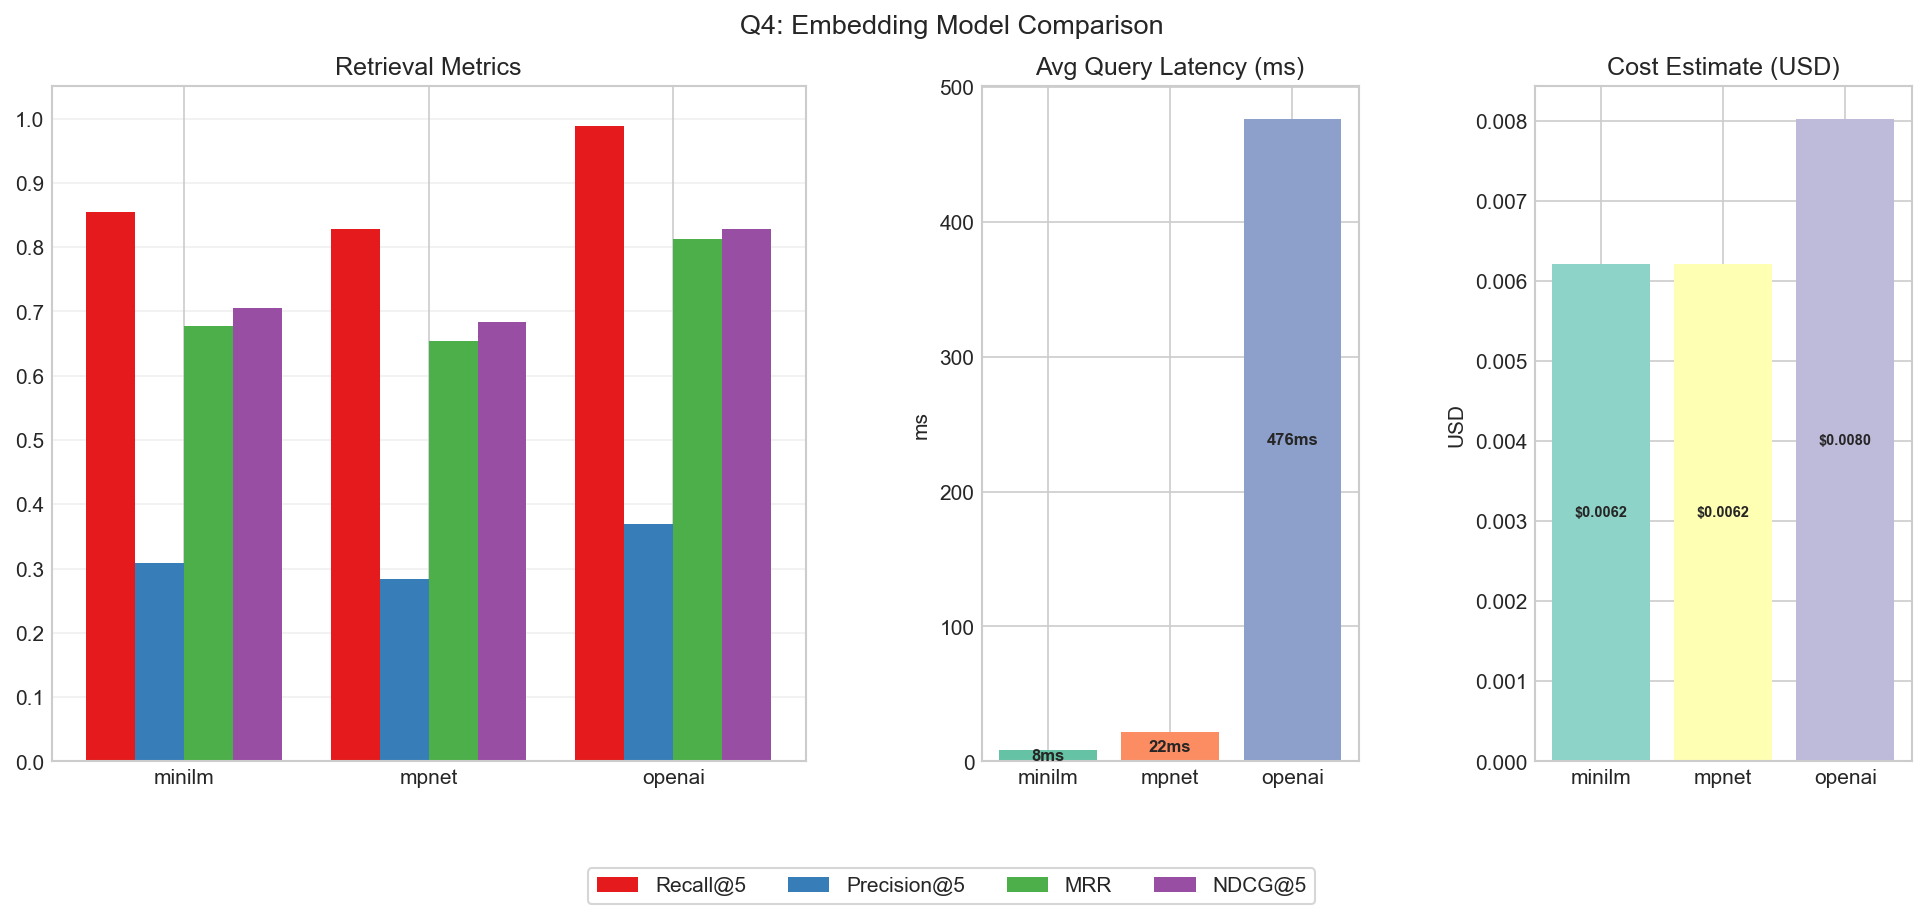
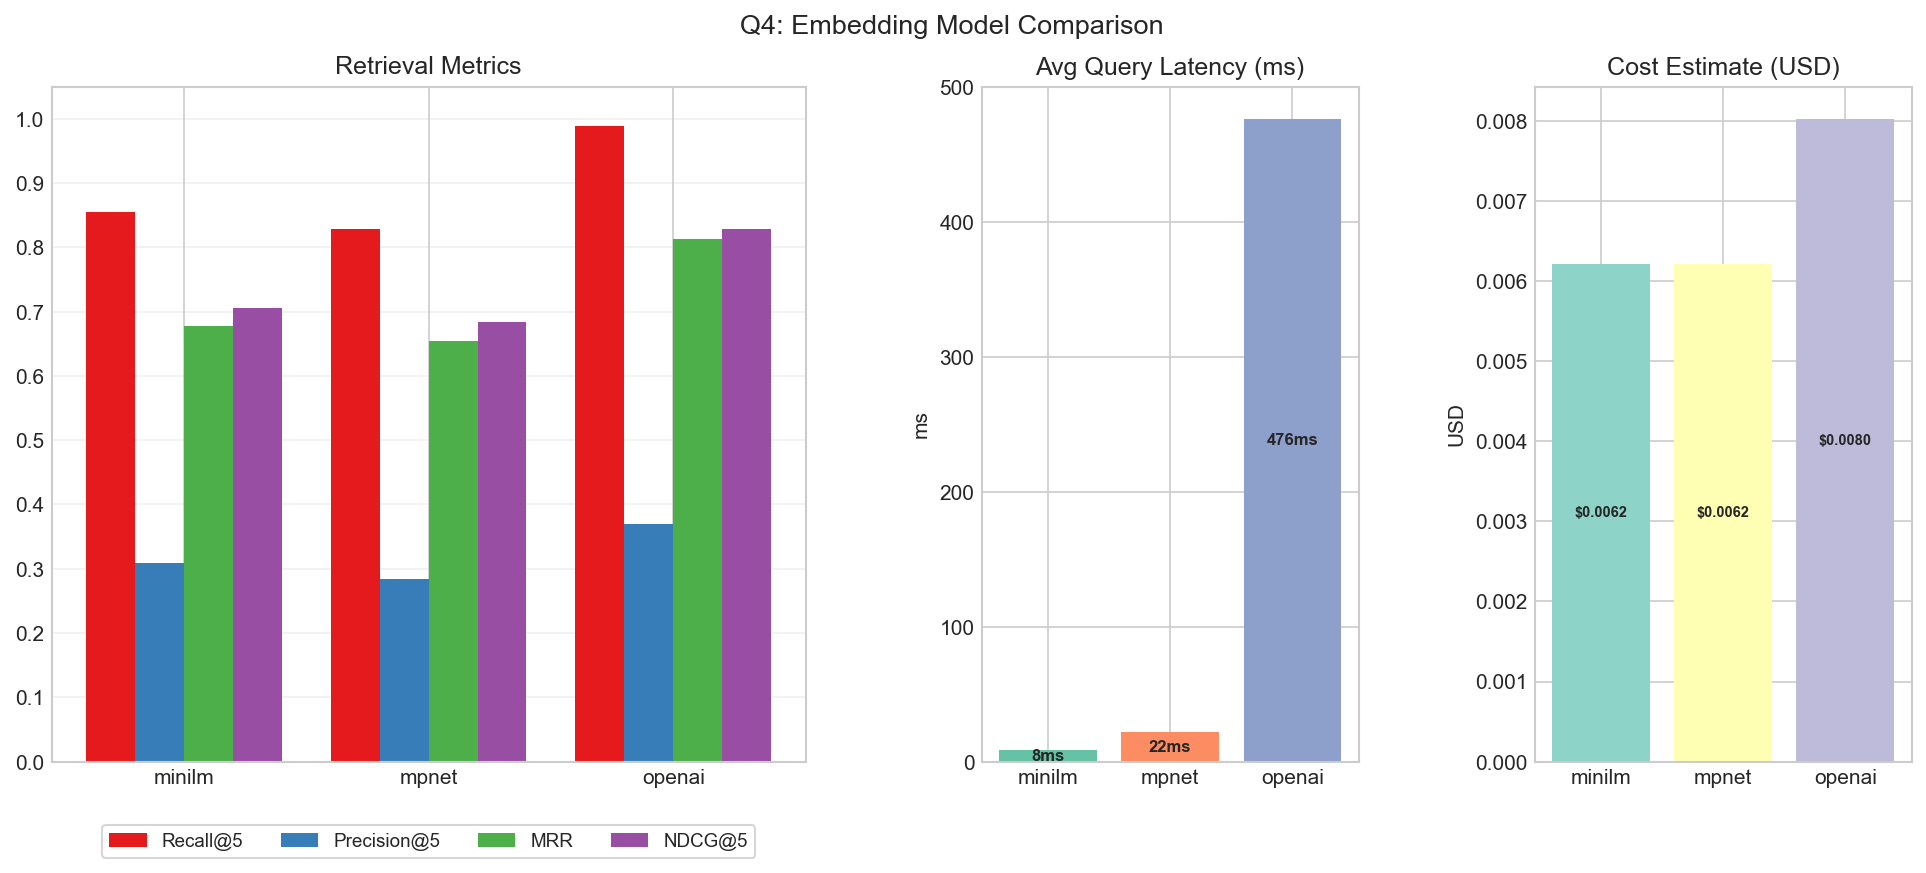
fix(p5): left-align legend below retrieval metrics panel only

diff --git a/src/visualization.py b/src/visualization.py
@@ -219,10 +219,9 @@ def plot_embedding_comparison(df: pd.DataFrame, output_dir: Path) -> Path:
         axes[2].set_ylabel("USD")
 
         fig.suptitle("Q4: Embedding Model Comparison", fontsize=13)
-        # Place legend below the figure, spanning all panels
-        handles, labels = axes[0].get_legend_handles_labels()
-        fig.legend(handles, labels, loc="lower center", ncol=4, fontsize=10,
-                   bbox_to_anchor=(0.5, -0.02), frameon=True)
+        # Legend below the Retrieval Metrics panel only (left-aligned)
+        axes[0].legend(fontsize=9, loc="upper center", bbox_to_anchor=(0.5, -0.08),
+                       ncol=4, frameon=True)
         fig.subplots_adjust(wspace=0.35, top=0.90, bottom=0.15)
         return _save_fig(fig, output_dir, "embedding_comparison")
 
